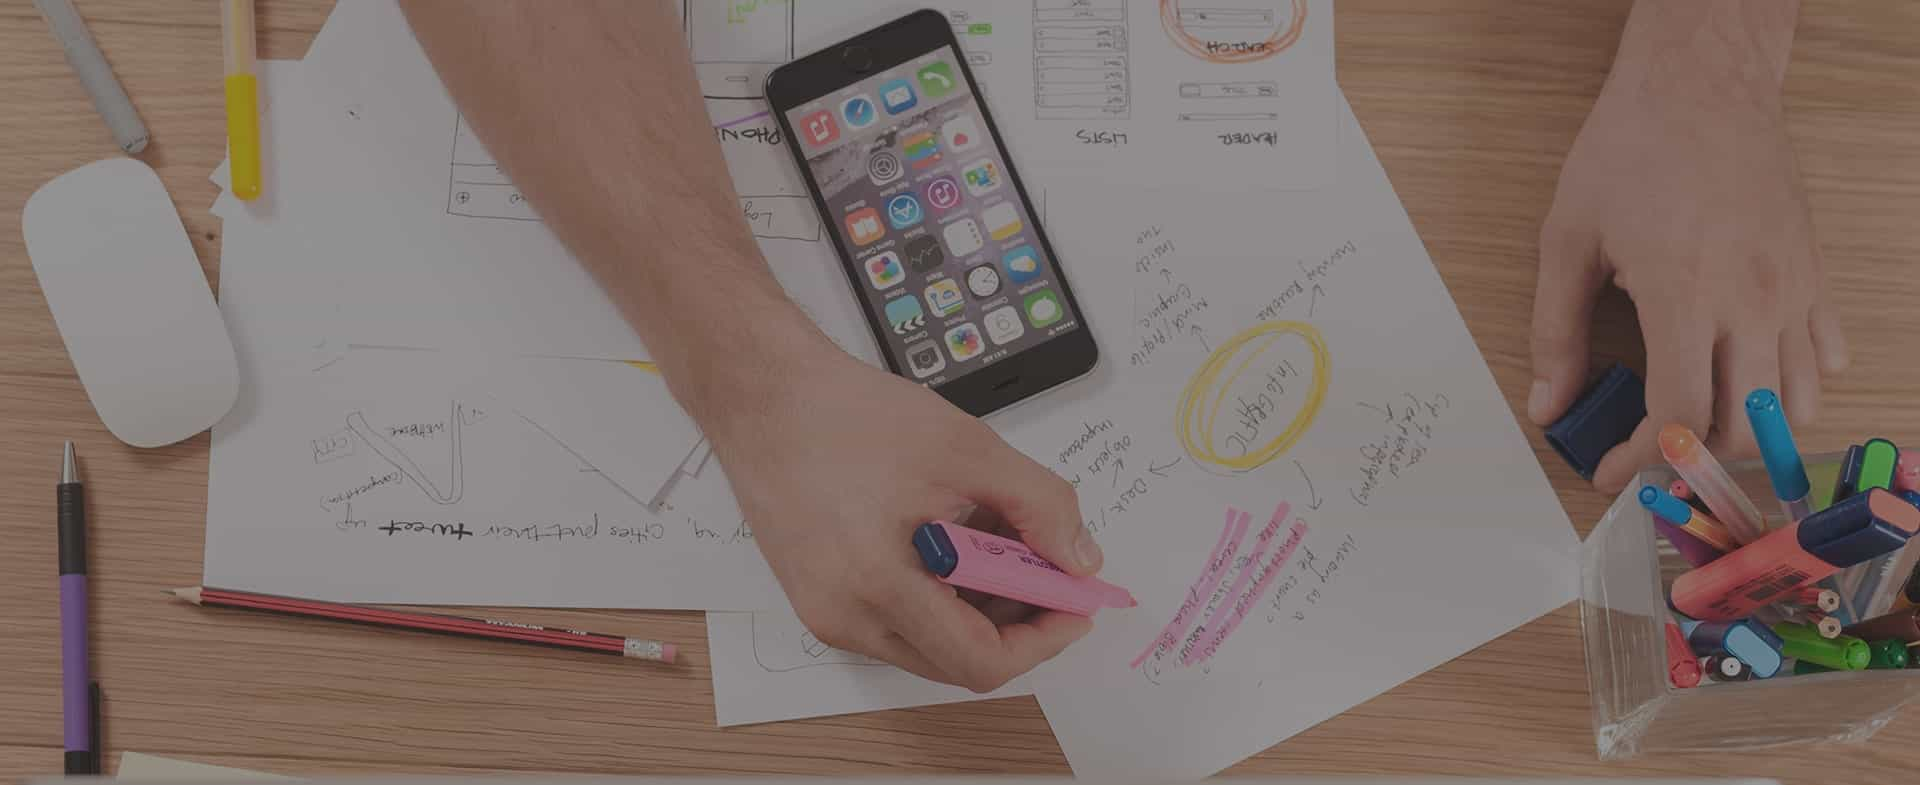
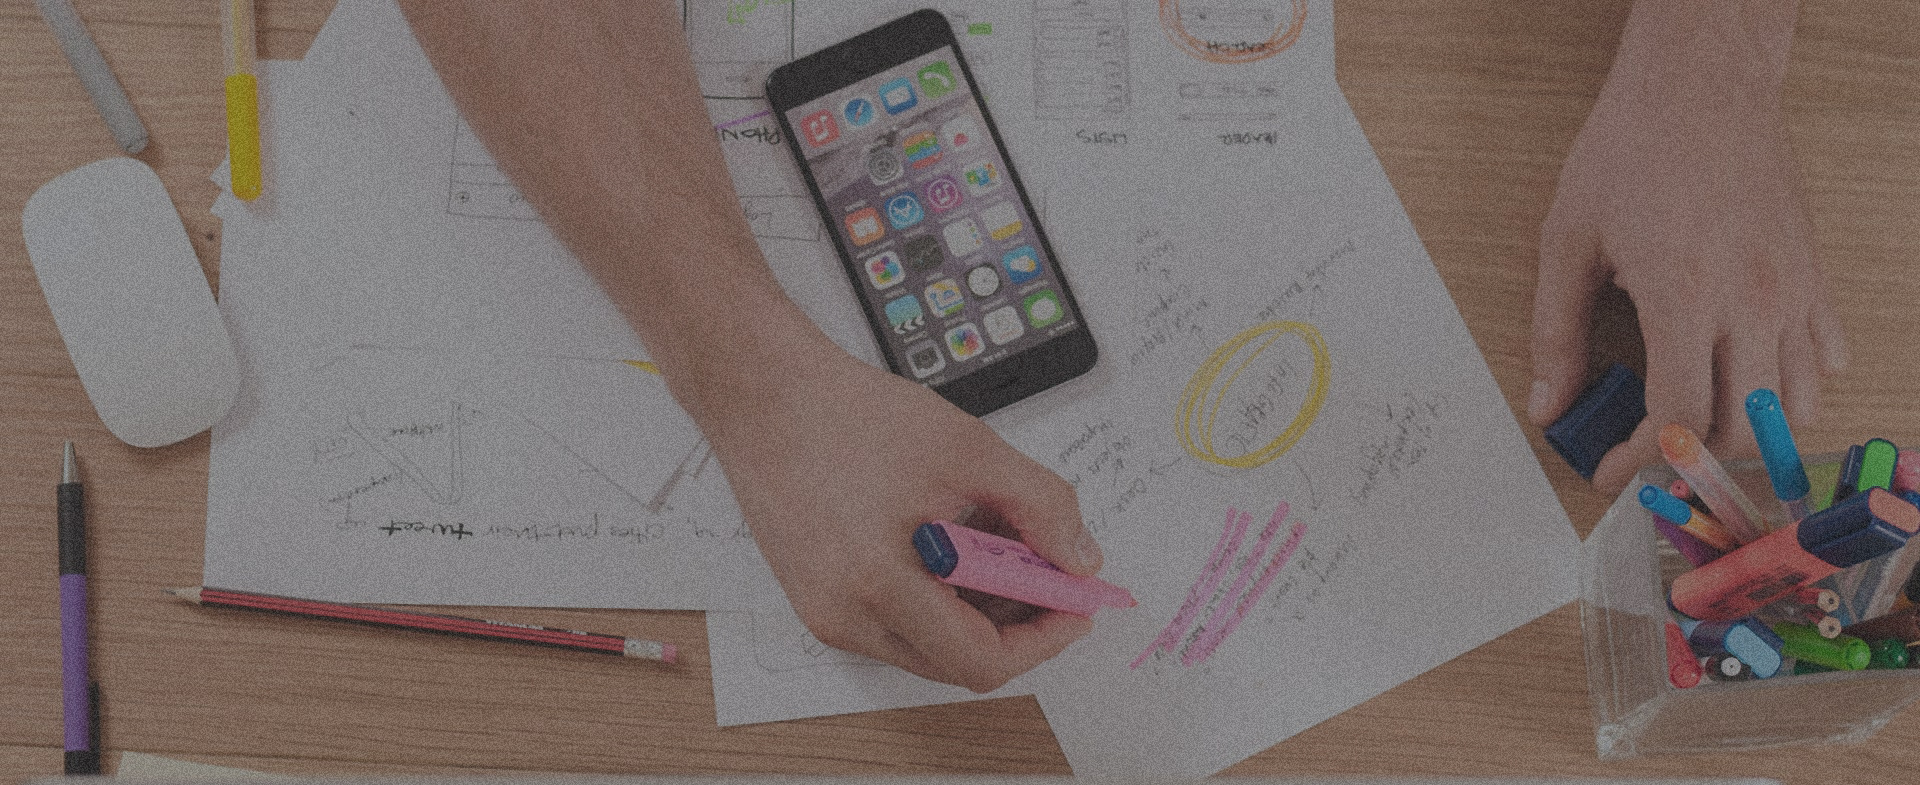
Img traitment + title changed

Changed region(s): [[0.25, 0.7949, 0.3125, 0.8255], [0.9688, 0.6115, 1.0, 0.642]]

diff --git a/assets/css/style.min.css b/assets/css/style.min.css
@@ -1,1 +1,1 @@
-@charset "UTF-8";.contact-banner .contact-banner__form,.header-banner,.paraph-banner,.paraph-banner .paraph-banner__block,.project-banner{background-repeat:repeat;background-position:center}.header-banner,.paraph-banner{background-attachment:fixed}html{scroll-behavior:smooth}body{padding:100px 0 0 0!important;margin:0}body header{height:93.6px;margin:0!important}body .bg-white{background-color:transparent!important;-webkit-transition:350ms ease;transition:350ms ease}body .bg-white.scrolled{background-color:#f3976c!important}body header a{z-index:9}body header a img{width:80%}body footer{background-color:#f3976c}body footer p{color:#fff;padding:1rem 0}body footer nav{padding-bottom:1rem}a{color:#000!important;padding:5px 12px}a:hover{text-decoration:none!important}ul{list-style:none;padding-left:0}.social-icon .fa{color:rgba(255,255,255,.6)}.social-icon .fa:hover{color:#fff}.partners p{color:#000;margin-bottom:0;padding:0}.partners a{font-size:13px;font-style:italic}@media (max-width:576px){header a{width:80%!important}.what-carousel{height:400px!important;margin-bottom:0}.what-carousel h2{font-size:18px!important}.what-carousel .carousel-item .text-carousel{margin:0 3rem}.what-carousel .carousel-item h3{font-size:18px!important}.what-carousel .carousel-item p{font-size:13px}.quote{font-size:medium;color:#000!important;opacity:.7}.quote-container{margin-top:-50px!important}.paraph-banner,.paraph-banner__block{height:400px!important}.paraph-banner .first-pg,.paraph-banner__block .first-pg{font-size:18px!important}.project-banner{height:200px!important}.project-banner p{font-size:20px!important}.localisation p{font-size:15px!important}}@media (min-width:576px) and (max-width:768px){.what-carousel{height:500px!important}}@media (max-width:768px){.form-control{width:90%!important}#what{display:none}}@media (max-width:1023.9px){#menuDesktop{display:none}}@media (min-width:992px){#menuMobile{display:none}}@media (min-width:768.1px){.what-carousel{display:none}}.btn-contact{padding:12px 28px;background-color:#f3976c;color:#000!important;border-radius:40px;font-weight:700;font-size:20px}.btn-contact:hover{opacity:.9;color:#fff}.color-title{color:#f3976c}.navlink:hover{background-color:#f3976c}.navlink.scrolled:hover{background-color:#fff!important}.navbar-expand-lg button{background-color:#f3976c}.header-banner{background-image:url(../img/texture-paper.png),url(../img/banner.jpg);height:439px}.header-banner img{width:100px;height:auto}.header-banner h1{margin:32px 0 0 10px}.header-banner div{margin:44px 0 0 0}.presentation-banner{margin:5rem 0}.presentation-banner .quote,.presentation-banner h2,.presentation-banner h5{color:rgba(0,0,0,.5)}.presentation-banner h2{margin-bottom:2rem}.presentation-banner h5{margin:0 7rem}.presentation-banner .row{margin-bottom:4rem}.presentation-banner .col-lg-4{margin-bottom:1rem}.presentation-banner .col-lg-4 img{width:35%;height:78.11px;margin-bottom:1rem}.paraph-banner{background-image:url(../img/presentation.jpeg);height:549px}.paraph-banner .paraph-banner__block{background-image:url(../img/texture-paper.png);height:500px}.paraph-banner .paraph-banner__block .text{margin-top:10%;margin-bottom:2rem}.paraph-banner .paraph-banner__block p:nth-child(2){font-size:13px;color:#fff}.rea-banner{padding:10rem 0;background-image:url(../img/lines-h2-bg.png);background-repeat:repeat}.rea-banner h2{color:rgba(0,0,0,.5);margin:0 0 5rem 0}.rea-banner h3{margin:1.5rem 0;font-size:16px}.rea-banner p{font-size:11px}.rea-banner .row:nth-child(2){margin-bottom:3rem}.project-banner{background-image:url(../img/texture-paper.png),url(../img/banner.jpg);height:365px}.project-banner div{margin:44px 0 0 0}.contact-banner{background-color:#fff;padding:5rem 0}.contact-banner .contact-banner__form{padding:6rem 0;background-image:url(../img/dots-bg.png),url(../img/texture-paper.png);background-color:#f3976c}.contact-banner .contact-banner__form form{width:100%;margin-left:0;margin-right:0}.contact-banner .contact-banner__form form .form-arrea{text-align:left!important}.contact-banner .contact-banner__form form button{width:30%;margin-top:2rem;margin-bottom:5rem}.localisation img{width:50%;margin-bottom:2rem}.localisation img:hover{opacity:.8}.localisation p a:hover{text-decoration:underline!important}.what-carousel{margin:3rem 0;height:930px}.what-carousel #what-carousel img{margin:1rem auto}.what-carousel #what-carousel .text-carousel{margin-bottom:5rem}#menuMobile{position:relative;z-index:1;-webkit-user-select:none;-moz-user-select:none;-ms-user-select:none;user-select:none}#menuMobile a{text-decoration:none;color:#000;-webkit-transition:color .3s ease;transition:color .3s ease}#menuMobile input{display:block;width:40px;height:32px;position:absolute;cursor:pointer;opacity:0;z-index:2;-webkit-touch-callout:none}#menuMobile span{display:block;width:33px;height:4px;margin-bottom:5px;position:relative;background:#000;border-radius:3px;z-index:1;-webkit-transform-origin:4px 0;transform-origin:4px 0;-webkit-transition:background .5s cubic-bezier(.77,.2,.05,1),opacity .55s ease,-webkit-transform .5s cubic-bezier(.77,.2,.05,1);transition:background .5s cubic-bezier(.77,.2,.05,1),opacity .55s ease,-webkit-transform .5s cubic-bezier(.77,.2,.05,1);transition:transform .5s cubic-bezier(.77,.2,.05,1),background .5s cubic-bezier(.77,.2,.05,1),opacity .55s ease;transition:transform .5s cubic-bezier(.77,.2,.05,1),background .5s cubic-bezier(.77,.2,.05,1),opacity .55s ease,-webkit-transform .5s cubic-bezier(.77,.2,.05,1)}#menuMobile span:nth-child(1){-webkit-transform-origin:0 0;transform-origin:0 0}#menuMobile span:nth-child(2){-webkit-transform-origin:0 100%;transform-origin:0 100%}#menuMobile input:checked~span{opacity:1;-webkit-transform:rotate(45deg) translate(-2px,-3px);transform:rotate(45deg) translate(-2px,-3px);background:#000}#menuMobile input:checked~span:nth-last-child(3){opacity:0;-webkit-transform:rotate(0) scale(.2,.2);transform:rotate(0) scale(.2,.2)}#menuMobile input:checked~span:nth-last-child(2){-webkit-transform:rotate(-45deg) translate(0,-1px);transform:rotate(-45deg) translate(0,-1px)}#menu{position:absolute;width:350px;margin:-100px 0 0 -300px;padding:50px;padding-top:125px;background:#f3976c;list-style-type:none;-webkit-font-smoothing:antialiased;-webkit-transform-origin:0 0;transform-origin:0 0;-webkit-transform:translate(0,-100%);transform:translate(0,-100%);-webkit-transition:-webkit-transform .5s cubic-bezier(.77,.2,.05,1);transition:-webkit-transform .5s cubic-bezier(.77,.2,.05,1);transition:transform .5s cubic-bezier(.77,.2,.05,1);transition:transform .5s cubic-bezier(.77,.2,.05,1),-webkit-transform .5s cubic-bezier(.77,.2,.05,1)}#menu li{padding:10px 0;font-size:22px}#menuMobile input:checked~ul{-webkit-transform:none;transform:none}
+@charset "UTF-8";.contact-banner .contact-banner__form,.header-banner,.paraph-banner,.paraph-banner .paraph-banner__block,.project-banner{background-repeat:repeat;background-position:center}.header-banner,.paraph-banner{background-attachment:fixed}html{scroll-behavior:smooth}body{padding:100px 0 0 0!important;margin:0}body header{height:93.6px;margin:0!important}body .bg-white{background-color:transparent!important;-webkit-transition:350ms ease;transition:350ms ease}body .bg-white.scrolled{background-color:#f3976c!important}body header a{z-index:9}body header a img{width:80%}body footer{background-color:#f3976c}body footer p{color:#fff;padding:1rem 0}body footer nav{padding-bottom:1rem}a{color:#000!important;padding:5px 12px}a:hover{text-decoration:none!important}ul{list-style:none;padding-left:0}.social-icon .fa{color:rgba(255,255,255,.6)}.social-icon .fa:hover{color:#fff}.partners p{color:#000;margin-bottom:0;padding:0}.partners a{font-size:13px;font-style:italic}@media (max-width:576px){header a{width:80%!important}.what-carousel{height:400px!important;margin-bottom:0}.what-carousel h2{font-size:18px!important}.what-carousel .carousel-item .text-carousel{margin:0 3rem}.what-carousel .carousel-item h3{font-size:18px!important}.what-carousel .carousel-item p{font-size:13px}.quote{font-size:medium;color:#000!important;opacity:.7}.quote-container{margin-top:-50px!important}.paraph-banner,.paraph-banner__block{height:400px!important}.paraph-banner .first-pg,.paraph-banner__block .first-pg{font-size:18px!important}.project-banner{height:200px!important}.project-banner p{font-size:20px!important}.localisation p{font-size:15px!important}}@media (min-width:576px) and (max-width:768px){.what-carousel{height:500px!important}}@media (max-width:768px){.form-control{width:90%!important}#what{display:none}}@media (max-width:1023.9px){#menuDesktop{display:none}}@media (min-width:992px){#menuMobile{display:none}}@media (min-width:768.1px){.what-carousel{display:none}}.btn-contact{padding:12px 28px;background-color:#f3976c;color:#000!important;border-radius:40px;font-weight:700;font-size:20px}.btn-contact:hover{opacity:.9;color:#fff}.color-title{color:#f3976c}.navlink:hover{background-color:#f3976c}.navlink.scrolled:hover{background-color:#fff!important}.navbar-expand-lg button{background-color:#f3976c}.header-banner{background-image:url(../img/banner.jpg);height:439px}.header-banner img{width:100px;height:auto}.header-banner h1{margin:32px 0 0 10px}.header-banner div{margin:44px 0 0 0}.presentation-banner{margin:5rem 0}.presentation-banner .quote,.presentation-banner h2,.presentation-banner h5{color:rgba(0,0,0,.5)}.presentation-banner h2{margin-bottom:2rem}.presentation-banner h5{margin:0 7rem}.presentation-banner .row{margin-bottom:4rem}.presentation-banner .col-lg-4{margin-bottom:1rem}.presentation-banner .col-lg-4 img{width:35%;height:78.11px;margin-bottom:1rem}.paraph-banner{background-image:url(../img/presentation.jpg);height:549px}.paraph-banner .paraph-banner__block{background-image:url(../img/texture-paper.png);height:500px}.paraph-banner .paraph-banner__block .text{margin-top:10%;margin-bottom:2rem}.paraph-banner .paraph-banner__block p:nth-child(2){font-size:13px;color:#fff}.rea-banner{padding:10rem 0;background-image:url(../img/lines-h2-bg.png);background-repeat:repeat}.rea-banner h2{color:rgba(0,0,0,.5);margin:0 0 5rem 0}.rea-banner h3{margin:1.5rem 0;font-size:16px}.rea-banner p{font-size:11px}.rea-banner .row:nth-child(2){margin-bottom:3rem}.project-banner{background-image:url(../img/banner.jpg);height:365px}.project-banner div{margin:44px 0 0 0}.contact-banner{background-color:#fff;padding:5rem 0}.contact-banner .contact-banner__form{padding:6rem 0;background-image:url(../img/dots-bg.png),url(../img/texture-paper.png);background-color:#f3976c}.contact-banner .contact-banner__form form{width:100%;margin-left:0;margin-right:0}.contact-banner .contact-banner__form form .form-arrea{text-align:left!important}.contact-banner .contact-banner__form form button{width:30%;margin-top:2rem;margin-bottom:5rem}.localisation img{width:50%;margin-bottom:2rem}.localisation img:hover{opacity:.8}.localisation p a:hover{text-decoration:underline!important}.what-carousel{margin:3rem 0;height:930px}.what-carousel #what-carousel img{margin:1rem auto}.what-carousel #what-carousel .text-carousel{margin-bottom:5rem}#menuMobile{position:relative;z-index:1;-webkit-user-select:none;-moz-user-select:none;-ms-user-select:none;user-select:none}#menuMobile a{text-decoration:none;color:#000;-webkit-transition:color .3s ease;transition:color .3s ease}#menuMobile input{display:block;width:40px;height:32px;position:absolute;cursor:pointer;opacity:0;z-index:2;-webkit-touch-callout:none}#menuMobile span{display:block;width:33px;height:4px;margin-bottom:5px;position:relative;background:#000;border-radius:3px;z-index:1;-webkit-transform-origin:4px 0;transform-origin:4px 0;-webkit-transition:background .5s cubic-bezier(.77,.2,.05,1),opacity .55s ease,-webkit-transform .5s cubic-bezier(.77,.2,.05,1);transition:background .5s cubic-bezier(.77,.2,.05,1),opacity .55s ease,-webkit-transform .5s cubic-bezier(.77,.2,.05,1);transition:transform .5s cubic-bezier(.77,.2,.05,1),background .5s cubic-bezier(.77,.2,.05,1),opacity .55s ease;transition:transform .5s cubic-bezier(.77,.2,.05,1),background .5s cubic-bezier(.77,.2,.05,1),opacity .55s ease,-webkit-transform .5s cubic-bezier(.77,.2,.05,1)}#menuMobile span:nth-child(1){-webkit-transform-origin:0 0;transform-origin:0 0}#menuMobile span:nth-child(2){-webkit-transform-origin:0 100%;transform-origin:0 100%}#menuMobile input:checked~span{opacity:1;-webkit-transform:rotate(45deg) translate(-2px,-3px);transform:rotate(45deg) translate(-2px,-3px);background:#000}#menuMobile input:checked~span:nth-last-child(3){opacity:0;-webkit-transform:rotate(0) scale(.2,.2);transform:rotate(0) scale(.2,.2)}#menuMobile input:checked~span:nth-last-child(2){-webkit-transform:rotate(-45deg) translate(0,-1px);transform:rotate(-45deg) translate(0,-1px)}#menu{position:absolute;width:350px;margin:-100px 0 0 -300px;padding:50px;padding-top:125px;background:#f3976c;list-style-type:none;-webkit-font-smoothing:antialiased;-webkit-transform-origin:0 0;transform-origin:0 0;-webkit-transform:translate(0,-100%);transform:translate(0,-100%);-webkit-transition:-webkit-transform .5s cubic-bezier(.77,.2,.05,1);transition:-webkit-transform .5s cubic-bezier(.77,.2,.05,1);transition:transform .5s cubic-bezier(.77,.2,.05,1);transition:transform .5s cubic-bezier(.77,.2,.05,1),-webkit-transform .5s cubic-bezier(.77,.2,.05,1)}#menu li{padding:10px 0;font-size:22px}#menuMobile input:checked~ul{-webkit-transform:none;transform:none}

diff --git a/index.html b/index.html
@@ -10,10 +10,10 @@
         content="La chouette agence donne accès à ses plus grands service en tant qu'agence web. Situé à Lyon, elle offre ses meilleures compétences de design, de développement, de conception de site web afin d'agrandir votre marque et présence digitale.">
     <meta name="keywords" content="agence web, site web, design, digital, lyon, site internet, paris, experts digitaux">
     <link rel="shortcut icon" type="image/jpg" href="assets/img/favicon.ico">
-    <title>La chouette agence</title>
+    <title>La Chouette agence: entreprise de webdesign basée à Lyon</title>
 
     <!-- Links -->
-    <link rel="stylesheet" type="text/css" href="assets/css/style.css">
+    <link rel="stylesheet" type="text/css" href="assets/css/style.min.css">
     <link rel="stylesheet" href="https://stackpath.bootstrapcdn.com/bootstrap/4.5.0/css/bootstrap.min.css"
         integrity="sha384-9aIt2nRpC12Uk9gS9baDl411NQApFmC26EwAOH8WgZl5MYYxFfc+NcPb1dKGj7Sk" crossorigin="anonymous">
 

diff --git a/assets/css/style.css b/assets/css/style.css
@@ -203,7 +203,7 @@ ul {
 
 /*=======First banner=====*/
 .header-banner {
-  background-image: url(../img/texture-paper.png), url(../img/banner.jpg);
+  background-image: url(../img/banner.jpg);
   height: 439px;
 }
 
@@ -299,7 +299,7 @@ ul {
 
 /*========Last Banner=========*/
 .project-banner {
-  background-image: url(../img/texture-paper.png), url(../img/banner.jpg);
+  background-image: url(../img/banner.jpg);
   height: 365px;
 }
 

diff --git a/Components/_logobanner.scss b/Components/_logobanner.scss
@@ -1,6 +1,6 @@
 /*=======First banner=====*/
 .header-banner{
-    background-image:url(../img/texture-paper.png), url(../img/banner.jpg);
+    background-image:url(../img/banner.jpg);
     @extend %image-background--fixed;
     height: 439px;
     img{

diff --git a/Components/_pub.scss b/Components/_pub.scss
@@ -1,6 +1,6 @@
 /*========Last Banner=========*/
 .project-banner{
-    background-image:url(../img/texture-paper.png), url(../img/banner.jpg);
+    background-image:url(../img/banner.jpg);
     @extend %image-background;
     height:365px;
     div{
